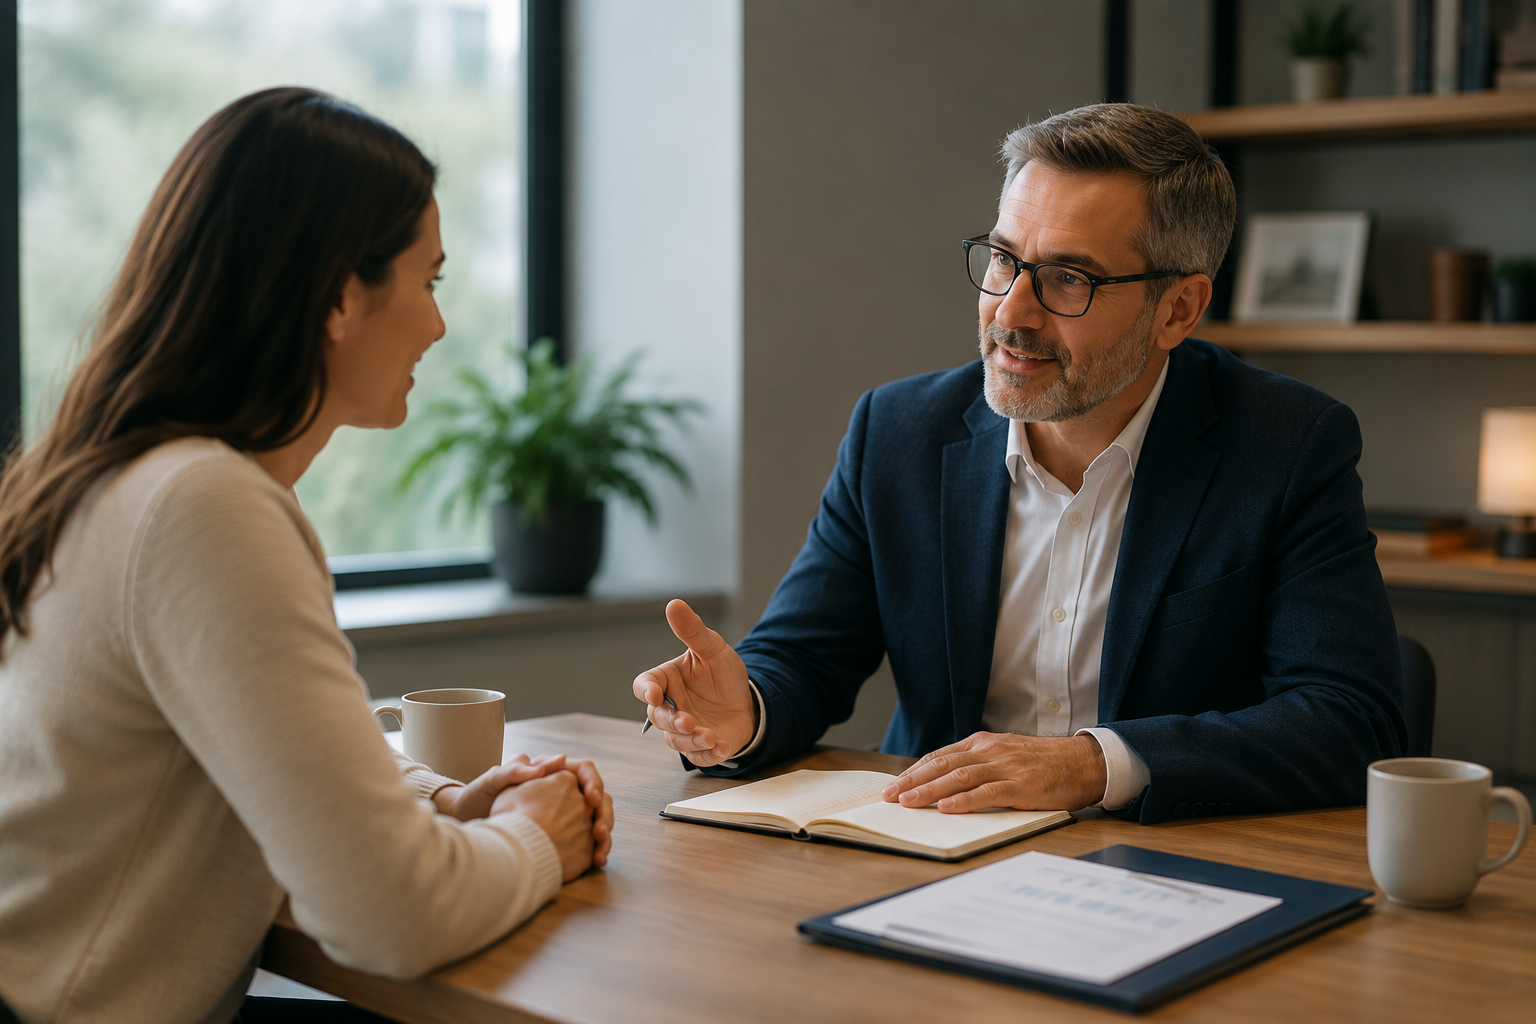
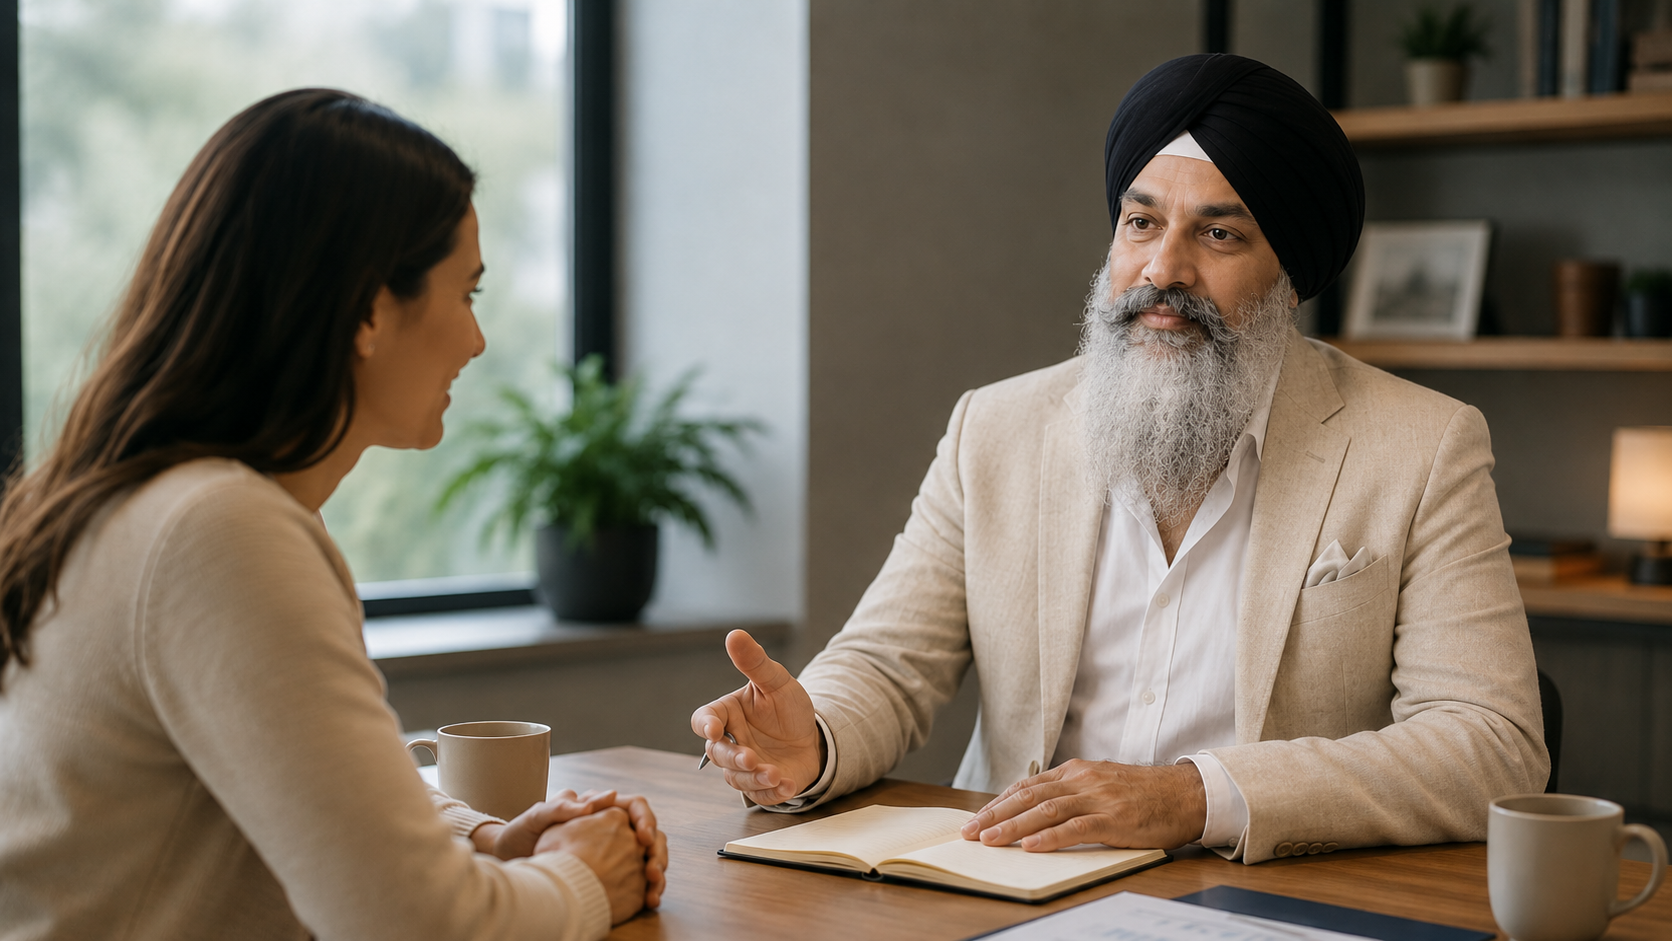
fix

diff --git a/src/lib/data/fallbacks.ts b/src/lib/data/fallbacks.ts
@@ -722,6 +722,61 @@ export const FALLBACK_SERVICES: PublicService[] = [
         "Educational retirement planning conversations — savings, income pathways and clear next steps.",
     },
   },
+  {
+    id: "pos-systems",
+    name: "POS Systems",
+    slug: "pos-systems",
+    shortDescription:
+      "Point-of-sale, AI ordering and website solutions for restaurants and retail businesses.",
+    summary:
+      "A dedicated business-technology pathway covering StarPOS retail & hospitality systems, Aiorders.io ordering tools, and custom website solutions — alongside your broader financial conversations.",
+    content: `<p>Many business owners need more than insurance and financing — they also need reliable technology to take payments, accept orders and present their brand online.</p><p>TopAdvice4U now offers a dedicated <strong>POS Systems</strong> pathway focused on three practical offerings:</p><h2>StarPOS</h2><p><a href="https://starpos.ca/" target="_blank" rel="noopener noreferrer">StarPOS</a> provides retail and hospitality point-of-sale solutions — tailored technology for businesses that need dependable in-store and hospitality systems.</p><h2>Aiorders.io</h2><p><a href="https://aiorders.io/" target="_blank" rel="noopener noreferrer">Aiorders.io</a> supports restaurants with AI-powered ordering and related growth tools — helping operators take and manage orders with clearer digital workflows.</p><h2>Websites</h2><p>We also support business website conversations — so your online presence can align with how you sell, take orders and present your services.</p><p>This page is educational. Final systems, pricing, timelines and suitability depend on your business needs and the relevant technology providers. A consultation is a conversation about goals and next steps — not a guaranteed installation or rate quote.</p>`,
+    icon: "MonitorSmartphone",
+    group: "financing",
+    audienceFilters: ["business"],
+    targetAudience: [
+      "Restaurant and hospitality owners",
+      "Retail operators",
+      "Business owners modernizing payments and ordering",
+    ],
+    challenges: [
+      "Choosing POS technology that fits day-to-day operations",
+      "Connecting online ordering to the front of house",
+      "Keeping websites aligned with how the business actually sells",
+    ],
+    benefits: [
+      "Clear conversations about StarPOS pathways",
+      "Introduction to Aiorders.io ordering tools",
+      "Website solution discussions for business presence",
+      "One advisory relationship that can connect finance and operations tech",
+    ],
+    processSteps: [
+      {
+        title: "Share how you operate",
+        description:
+          "Retail, hospitality, ordering volume and what is broken today.",
+      },
+      {
+        title: "Review the three pathways",
+        description:
+          "StarPOS, Aiorders.io and website options explained in plain language.",
+      },
+      {
+        title: "Outline next steps",
+        description:
+          "We help you decide what to explore first — without pressure or fabricated promises.",
+      },
+    ],
+    featured: true,
+    sortOrder: 13,
+    ctaLabel: "Book a Free Consultation",
+    ctaHref: "/contact",
+    seo: {
+      title: "POS Systems | TopAdvice4U",
+      description:
+        "POS, AI ordering and website solutions for restaurants and retail — StarPOS, Aiorders.io and business websites.",
+    },
+  },
 ];
 
 export const FALLBACK_TEAM_MEMBERS: PublicTeamMember[] = [
@@ -988,6 +1043,10 @@ export const FALLBACK_HEADER_NAV = {
           href: "/services/reverse-mortgage",
         },
         { label: "Business Loans", href: "/services/business-loans" },
+        {
+          label: "POS Systems",
+          href: "/services/pos-systems",
+        },
       ],
     },
     {

diff --git a/src/components/animations/OpeningAnimation.tsx b/src/components/animations/OpeningAnimation.tsx
@@ -291,7 +291,7 @@ export function OpeningAnimation() {
             </div>
 
             <div className="relative flex min-h-0 min-w-0 flex-1 flex-col items-center justify-center gap-3 sm:gap-4">
-              <div className="relative flex size-[min(68vw,260px)] items-center justify-center sm:size-[min(44vh,340px)] lg:size-[min(48vh,390px)]">
+              <div className="relative flex size-[min(72vw,300px)] items-center justify-center sm:size-[min(48vh,380px)] lg:size-[min(52vh,440px)]">
                 <div
                   className="pointer-events-none absolute inset-0"
                   style={{
@@ -302,12 +302,12 @@ export function OpeningAnimation() {
                 </div>
 
                 <div
-                  className="relative z-10 flex max-w-[85%] flex-col items-center px-2 text-center sm:max-w-[80%] sm:px-3"
+                  className="relative z-10 flex max-w-[88%] flex-col items-center px-2 text-center sm:max-w-[82%] sm:px-3"
                   style={{
                     animation: `intro-fade-up 1.1s cubic-bezier(0.22, 1, 0.36, 1) ${TIMING.center + 0.25}s both`,
                   }}
                 >
-                  <div className="relative mb-1 h-[4.5rem] w-[8rem] overflow-hidden sm:mb-1.5 sm:h-[6.5rem] sm:w-[12rem] lg:h-[7.5rem] lg:w-[14rem]">
+                  <div className="relative mb-1.5 h-[5.25rem] w-[9.5rem] overflow-hidden sm:mb-2 sm:h-[7.75rem] sm:w-[14rem] lg:h-[9rem] lg:w-[16.5rem]">
                     <Image
                       src="/logo/logo.png?v=2"
                       alt={SITE_DEFAULTS.businessName}
@@ -318,7 +318,7 @@ export function OpeningAnimation() {
                       className="absolute left-1/2 top-0 h-[145%] w-[145%] max-w-none -translate-x-1/2 object-contain object-top"
                     />
                   </div>
-                  <p className="font-display text-[1.1rem] font-semibold tracking-wide text-white sm:text-2xl lg:text-[1.75rem]">
+                  <p className="font-display text-[1.25rem] font-semibold tracking-wide text-white sm:text-[1.75rem] lg:text-[2rem]">
                     TopAdvice
                     <span className="text-[#7dd3fc]">4U</span>
                   </p>
@@ -343,13 +343,13 @@ export function OpeningAnimation() {
               >
                 {ADVISORS.map((person) => (
                   <div key={person.name} className="flex flex-col items-center">
-                    <div className="relative size-16 overflow-hidden rounded-full border border-white/30 shadow-[0_0_22px_rgba(34,211,238,0.3)] sm:size-[4.75rem] lg:size-[5.5rem]">
+                    <div className="relative size-[4.75rem] overflow-hidden rounded-full border border-white/30 shadow-[0_0_22px_rgba(34,211,238,0.3)] sm:size-[5.75rem] lg:size-[6.75rem]">
                       <Image
                         src={person.src}
                         alt={person.name}
                         fill
                         unoptimized
-                        sizes="88px"
+                        sizes="108px"
                         className={
                           person.name.includes("Harkiran")
                             ? "object-cover object-[center_22%]"
@@ -357,7 +357,7 @@ export function OpeningAnimation() {
                         }
                       />
                     </div>
-                    <p className="mt-1.5 max-w-[5.5rem] text-center text-[10px] font-semibold leading-tight tracking-wide text-white/95 sm:max-w-[6.5rem] sm:text-[11px]">
+                    <p className="mt-2 max-w-[6.5rem] text-center text-[11px] font-semibold leading-tight tracking-wide text-white/95 sm:max-w-[7.5rem] sm:text-[12px] lg:text-[13px]">
                       {person.name}
                     </p>
                   </div>

diff --git a/src/components/public/Footer.tsx b/src/components/public/Footer.tsx
@@ -10,6 +10,7 @@ import {
   Home,
   Mail,
   MapPin,
+  MonitorSmartphone,
   Phone,
   Scale,
   Shield,
@@ -100,6 +101,12 @@ const solutions: {
     href: "/services/business-loans",
     icon: Briefcase,
     color: "#A78BFA",
+  },
+  {
+    label: "POS Systems",
+    href: "/services/pos-systems",
+    icon: MonitorSmartphone,
+    color: "#34D399",
   },
   {
     label: "Employee Benefits",

diff --git a/src/components/public/home/SolutionsUniverse.tsx b/src/components/public/home/SolutionsUniverse.tsx
@@ -11,6 +11,7 @@ import {
   Home,
   Landmark,
   LineChart,
+  MonitorSmartphone,
   PiggyBank,
   RefreshCw,
   ScrollText,
@@ -40,6 +41,7 @@ const iconMap: Record<string, LucideIcon> = {
   PiggyBank,
   Handshake,
   RefreshCw,
+  MonitorSmartphone,
 };
 
 const groupAccent: Record<string, string> = {
@@ -76,7 +78,7 @@ export function SolutionsUniverse({ services }: SolutionsUniverseProps) {
             Solutions universe
           </p>
           <h2 className="mt-3 font-display text-3xl sm:text-4xl lg:text-5xl">
-            Twelve pathways.{" "}
+            Thirteen pathways.{" "}
             <span className="text-gradient-gold">One trusted relationship.</span>
           </h2>
           <p className="mt-5 text-lg text-text-secondary">

diff --git a/src/config/service-media.ts b/src/config/service-media.ts
@@ -49,6 +49,10 @@ export const SERVICE_IMAGES: Record<string, { url: string; alt: string }> = {
     url: "/images/Services-4.png",
     alt: "Retirement planning discussion",
   },
+  "pos-systems": {
+    url: "/images/Services-1.png",
+    alt: "Business technology and point-of-sale systems",
+  },
 };
 
 export function serviceImage(

diff --git a/src/lib/data/index.ts b/src/lib/data/index.ts
@@ -334,7 +334,8 @@ export async function getHeaderNavigation() {
     );
     const megaMenuGroups =
       hrefs.has("/services/private-mortgages") &&
-      hrefs.has("/services/reverse-mortgage")
+      hrefs.has("/services/reverse-mortgage") &&
+      hrefs.has("/services/pos-systems")
         ? dbGroups
         : FALLBACK_HEADER_NAV.megaMenuGroups;
 

diff --git a/src/app/(public)/services/[slug]/page.tsx b/src/app/(public)/services/[slug]/page.tsx
@@ -12,6 +12,7 @@ import {
   Landmark,
   ScrollText,
   LineChart,
+  MonitorSmartphone,
   PiggyBank,
   RefreshCw,
   Shield,
@@ -45,6 +46,7 @@ const iconMap: Record<string, LucideIcon> = {
   PiggyBank,
   Handshake,
   RefreshCw,
+  MonitorSmartphone,
 };
 
 interface ServicePageProps {

diff --git a/src/app/(public)/services/page.tsx b/src/app/(public)/services/page.tsx
@@ -10,6 +10,7 @@ import {
   Home,
   Landmark,
   LineChart,
+  MonitorSmartphone,
   PiggyBank,
   RefreshCw,
   ScrollText,
@@ -42,6 +43,7 @@ const iconMap: Record<string, LucideIcon> = {
   PiggyBank,
   Handshake,
   RefreshCw,
+  MonitorSmartphone,
 };
 
 interface ServicesPageProps {

diff --git a/src/config/site.ts b/src/config/site.ts
@@ -72,6 +72,7 @@ export const SERVICE_SLUGS = [
   "estate-planning-coordination",
   "investments",
   "retirement-solutions",
+  "pos-systems",
 ] as const;
 
 export const LEAD_STATUSES = [